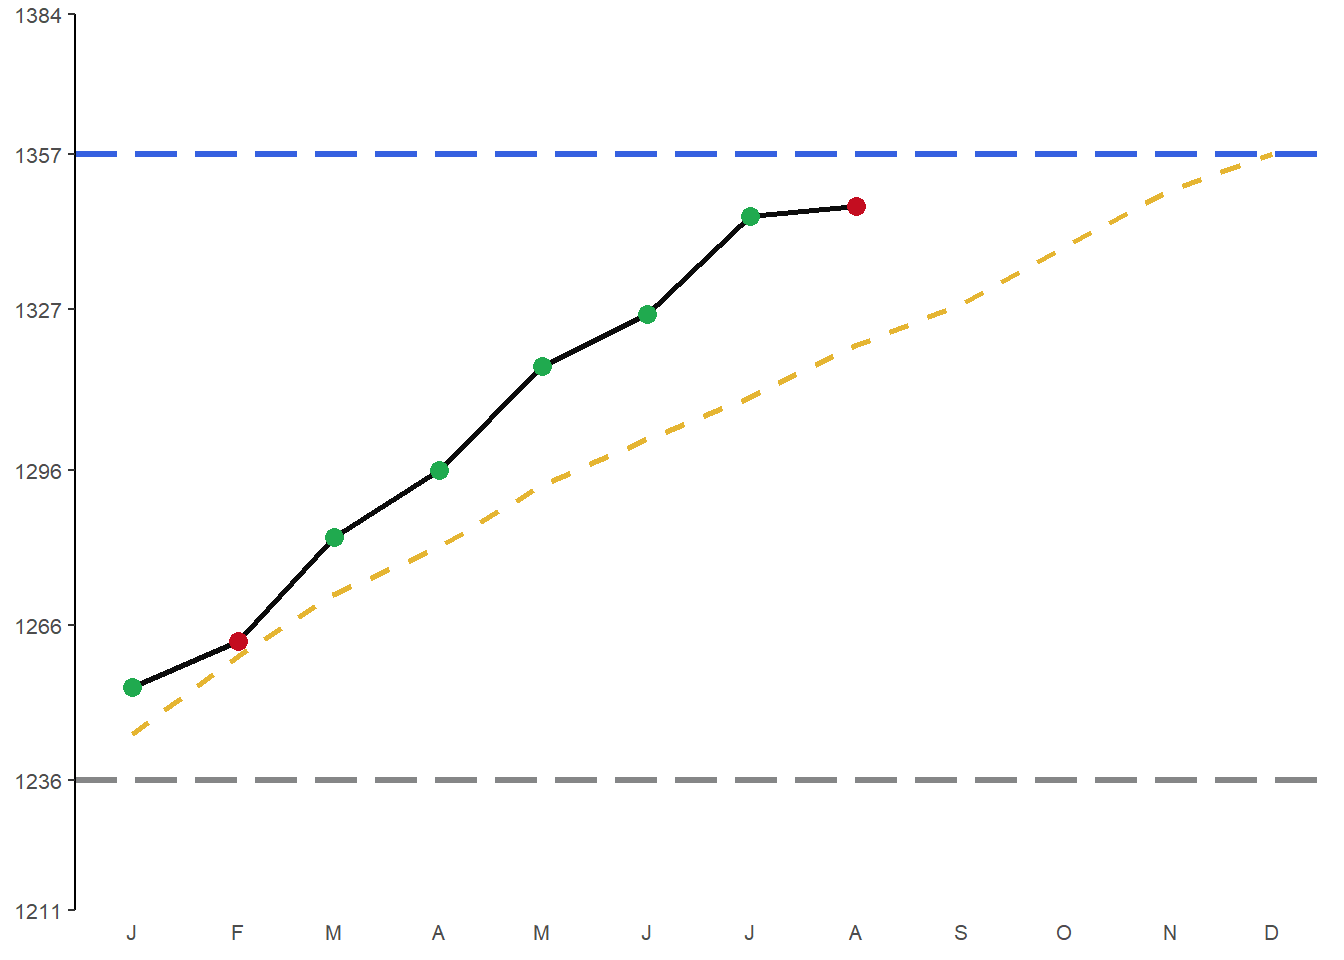
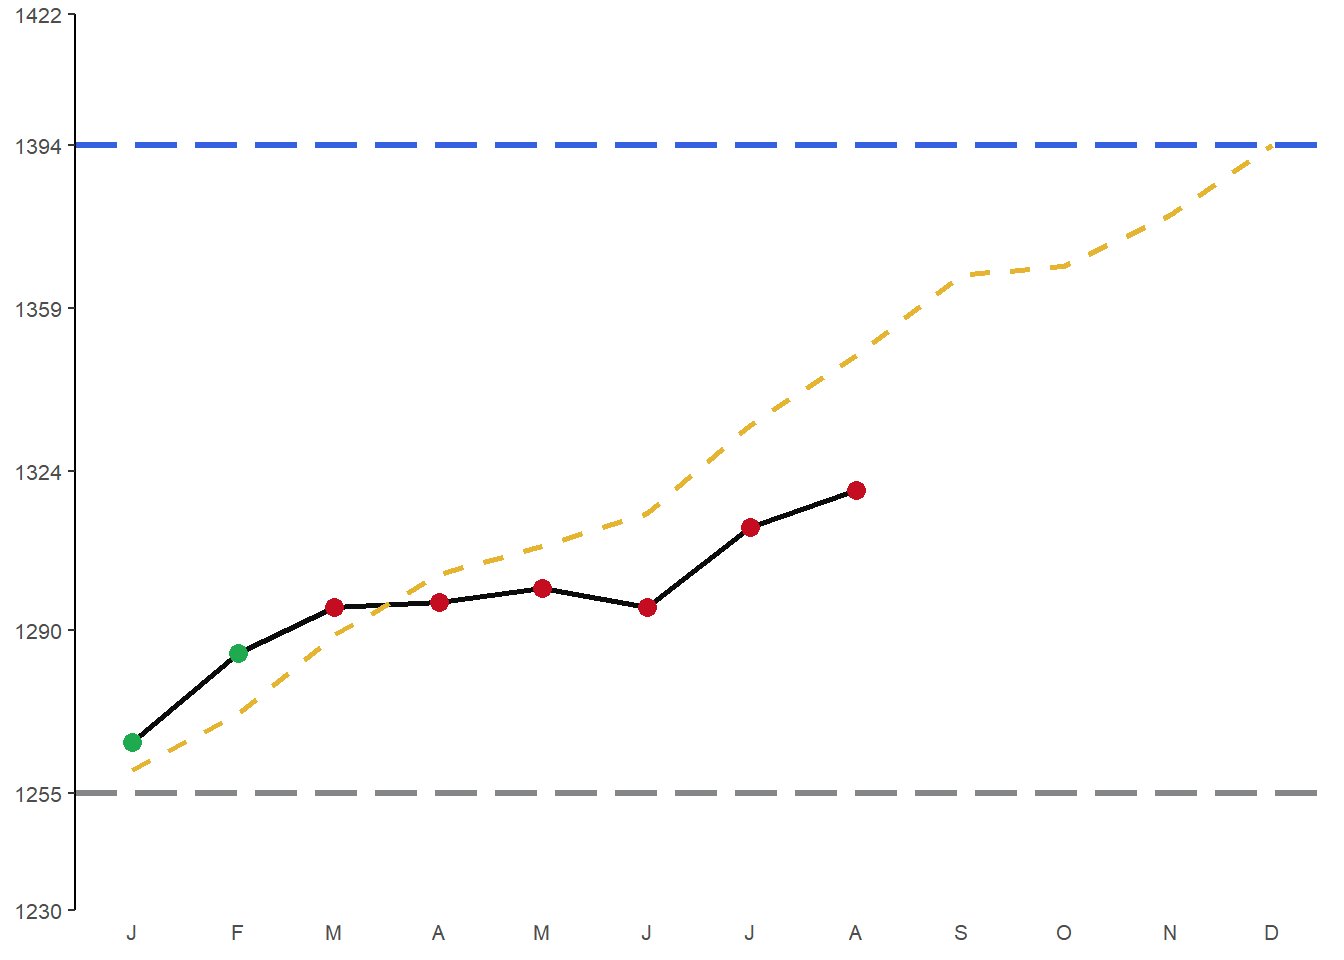
updating glidepath chart article-- was failing because of the tag for some reason

diff --git a/posts/the-glidepath-chart/index.html b/posts/the-glidepath-chart/index.html
@@ -94,14 +94,11 @@
             </span>
             <span class="reading-time">
               <i class="fas fa-clock"></i>
-              5 minutes read
+              8 minutes read
             </span>
           </div>
           
-          <div class="tags">
-  <i class="fas fa-tag"></i>
-    <a href="/tags/dataviz/">dataviz</a></div>
-
+          
         </div>
       </header>
 
@@ -139,9 +136,9 @@ glimpse(dat)</code></pre>
 <pre><code>## Observations: 12
 ## Variables: 4
 ## $ month          &lt;date&gt; 2018-01-01, 2018-02-01, 2018-03-01, 2018-04-01...
-## $ sales_baseline &lt;int&gt; 107, 110, 101, 103, 109, 105, 102, 105, 109, 11...
-## $ sales_target   &lt;int&gt; 110, 116, 113, 114, 111, 113, 110, 120, 115, 11...
-## $ sales_actual   &lt;int&gt; 120, 113, 105, 116, 107, 107, 118, 124, NA, NA,...</code></pre>
+## $ sales_baseline &lt;int&gt; 107, 106, 101, 105, 104, 110, 100, 105, 100, 10...
+## $ sales_target   &lt;int&gt; 112, 118, 118, 118, 110, 117, 119, 120, 117, 11...
+## $ sales_actual   &lt;int&gt; 118, 125, 111, 106, 107, 106, 117, 113, NA, NA,...</code></pre>
 <pre class="r"><code>total_baseline&lt;-sum(sales_baseline)
 total_target&lt;-sum(sales_target)</code></pre>
 <p>Once you have a data frame similar to <code>dat</code> above, the next code chunk shows the mathematical calculations to build the target glidepath. The calculation structure is not intuitive (at least, it wasn’t to me as it took awhile to get it right) when you look at the formulas but it makes more sense once is visualized. The goal is to express the targets and current period performance in a way that shows it as a march from the baseline to the target rather than the nominal level of the metric being measured. A basic plot is shown after the calculations so that you can see the general idea behind the chart. We will make this prettier in the final step.</p>
@@ -153,15 +150,14 @@ total_target&lt;-sum(sales_target)</code></pre>
          glidepath = cum_tvb + total_baseline,
          sales_v_base = sales_actual - sales_baseline,
          cum_svb = cumsum(sales_v_base),
-         salespath = cum_svb + total_baseline,
+         actualpath = cum_svb + total_baseline,
          on_target = as.factor(ifelse(sales_actual &lt; sales_target,&quot;Miss Mthly\nTarget&quot;,&quot;Hit Mthly\nTarget&quot;)))
 
 ggplot(dat2,aes(x = month)) +
   geom_line(aes(y = total_baseline)) +
   geom_line(aes(y = total_target)) +
   geom_line(aes(y = glidepath)) +
-  geom_line(aes(y = salespath))</code></pre>
-<pre><code>## Warning: Removed 4 rows containing missing values (geom_path).</code></pre>
+  geom_line(aes(y = actualpath))</code></pre>
 <p><img src="/posts/2019-02-16-the-glidepath-chart_files/figure-html/sales_calc-1.png" width="672" /></p>
 <p>This code chunk creates the y axis scale and breaks and sets the colors that will be used.</p>
 <pre class="r"><code># define y axis scale -- want to add space above/below the baseline and target lines
@@ -178,7 +174,58 @@ hline.baseline.color&lt;-&quot;#858687&quot;
 hline.target.color&lt;-&quot;#3560e0&quot;
 
 #set colors for hit/miss target and glidepath and actual lines
-colors &lt;- c(&quot;Actual\nReduction&quot;=&quot;#0c0c0c&quot;,&quot;Target\nReduction&quot;=&quot;#e5b532&quot;,&quot;Hit Mthly\nTarget&quot;=&quot;#20aa4f&quot;, &quot;Miss Mthly\nTarget&quot;=&quot;#c40d20&quot;)</code></pre>
+colors &lt;- c(&quot;Actual\nReduction&quot;=&quot;#0c0c0c&quot;,&quot;Target\nReduction&quot;=&quot;#e5b532&quot;,&quot;Hit Mthly\nTarget&quot;=&quot;#20aa4f&quot;, &quot;Miss Mthly\nTarget&quot;=&quot;#c40d20&quot;)
+
+month_abbrv&lt;-substr(strsplit(month.abb,&quot;&quot;),4,4)  ##1 letter abbreviatio of months for x axis text</code></pre>
+<p>A <code>ggplot</code> is used to build the final chart with the following elements:</p>
+<ul>
+<li>Horizontal dashed reference lines represent the target (blue) and baseline (gray). We want to move from the gray to the blue.</li>
+<li>An orange dashed line will end at the blue target showing the glidepath.</li>
+<li>A black line shows the actual performance during the current period. <em>The YTD performance versus the target is indicated by the position of the black and orange lines. If the black line is between the orange line and the blue target line, then YTD target is being exceeded.</em></li>
+<li>Green and red points indicate whether a particular monthly target was met. A red point means the monthly target was missed, even if the performance was better than the prior year (the black line still moves in the direction of the target).</li>
+</ul>
+<pre class="r"><code>ggplot(dat2,aes(x = month)) +
+  geom_hline(yintercept = total_baseline, color = hline.baseline.color, size = 1.2, linetype = 5) +  
+  geom_hline(yintercept = total_target, color = hline.target.color, size = 1.2, linetype = 5) + 
+  geom_line(aes(y= actualpath, color = &quot;Actual\nReduction&quot;), alpha = 1, size = 1) + 
+  geom_line(aes(y = glidepath, color = &quot;Target\nReduction&quot;) ,alpha = 1, size = 1, linetype = 2) + 
+  geom_point(mapping=aes(x = month, y = actualpath, color = on_target), alpha = 1, size = 3, show.legend = FALSE) + 
+  theme_classic() + 
+  scale_colour_manual(values = colors) + 
+  scale_y_continuous(limits = c(y_min, y_max), expand = c(0, 0), breaks = breaks_y) + 
+  scale_x_date(breaks = dat2$month, labels = month_abbrv) + 
+  theme(axis.line.x = element_blank(), axis.ticks.x = element_blank(), panel.grid.major = element_blank(), axis.title = element_blank(), axis.text = element_text(size = 8), plot.title = element_text(size = 10), legend.position = &quot;none&quot;)</code></pre>
+<p><img src="/posts/2019-02-16-the-glidepath-chart_files/figure-html/glidepath_chart-1.png" width="672" /></p>
+</div>
+<div id="glidepath-chart-for-an-averaged-target-average-handle-time" class="section level3">
+<h3>Glidepath chart for an averaged target: Average Handle Time</h3>
+<p>For the AHT example I am imagining a call center with AHT of 6 minutes (360 seconds) that wants to lower it by 12 seconds, one second per month. Below the data is created.</p>
+<pre class="r"><code>aht_target&lt;-seq(from = 359, to = 337, by = -2)
+aht_actual&lt;-sample(348:360, 4, replace = TRUE)
+endofyear&lt;-c(NA,NA,NA,NA,NA,NA,NA,NA)
+aht_actual&lt;-append(aht_actual,endofyear) 
+dat&lt;-data.frame(month = seq(from = as.Date(&quot;2018-01-01&quot;), by = &quot;month&quot;, length.out = 12),aht_target,aht_actual)
+total_baseline&lt;-360
+total_target&lt;-348
+
+# Now we are going to create the glidepath
+dat2&lt;-dat %&gt;%
+  mutate(tgt_v_base = total_baseline - aht_target,
+         cum_tvb = cummean(tgt_v_base),
+         glidepath = round(total_baseline - cum_tvb,0),
+         aht_v_base = total_baseline - aht_actual,
+         cum_svb = cummean(aht_v_base),
+         actualpath = round(total_baseline - cum_svb,0),
+         on_target = as.factor(ifelse(aht_actual &gt;= aht_target,&quot;Miss Mthly\nTarget&quot;,&quot;Hit Mthly\nTarget&quot;)))</code></pre>
+<p>Another difference in these charts is that the target and baseline are flipped– the glidepath slope will be negative as the target is a reduction in AHT. This requires changes in the y axis scales and breaks.</p>
+<pre class="r"><code>y_max&lt;-round(total_baseline * 1.01, 0)
+y_min&lt;-round(total_target * 0.99, 0)
+break1&lt;-round((total_baseline - total_target) * 0.25 + total_target, 0)
+break2&lt;-round((total_baseline - total_target) * 0.5 + total_target, 0)
+break3&lt;-round((total_baseline - total_target) * 0.75 + total_target, 0)
+breaks_y&lt;-c(y_min, total_target, break1, break2, break3, total_baseline, y_max)</code></pre>
+<p>The <code>ggplot</code> code is the same. Here is the AHT glidepath chart.</p>
+<p><img src="/posts/2019-02-16-the-glidepath-chart_files/figure-html/aht_plot-1.png" width="672" /></p>
 </div>
 </div>
 

diff --git a/tags/index.html b/tags/index.html
@@ -89,11 +89,6 @@
     </li>
     
     <li>
-      <span class="date">February 16, 2019</span>
-      <a class="title" href="/tags/dataviz/">Dataviz</a>
-    </li>
-    
-    <li>
       <span class="date">February 3, 2019</span>
       <a class="title" href="/tags/getting-un/">Getting Un</a>
     </li>
